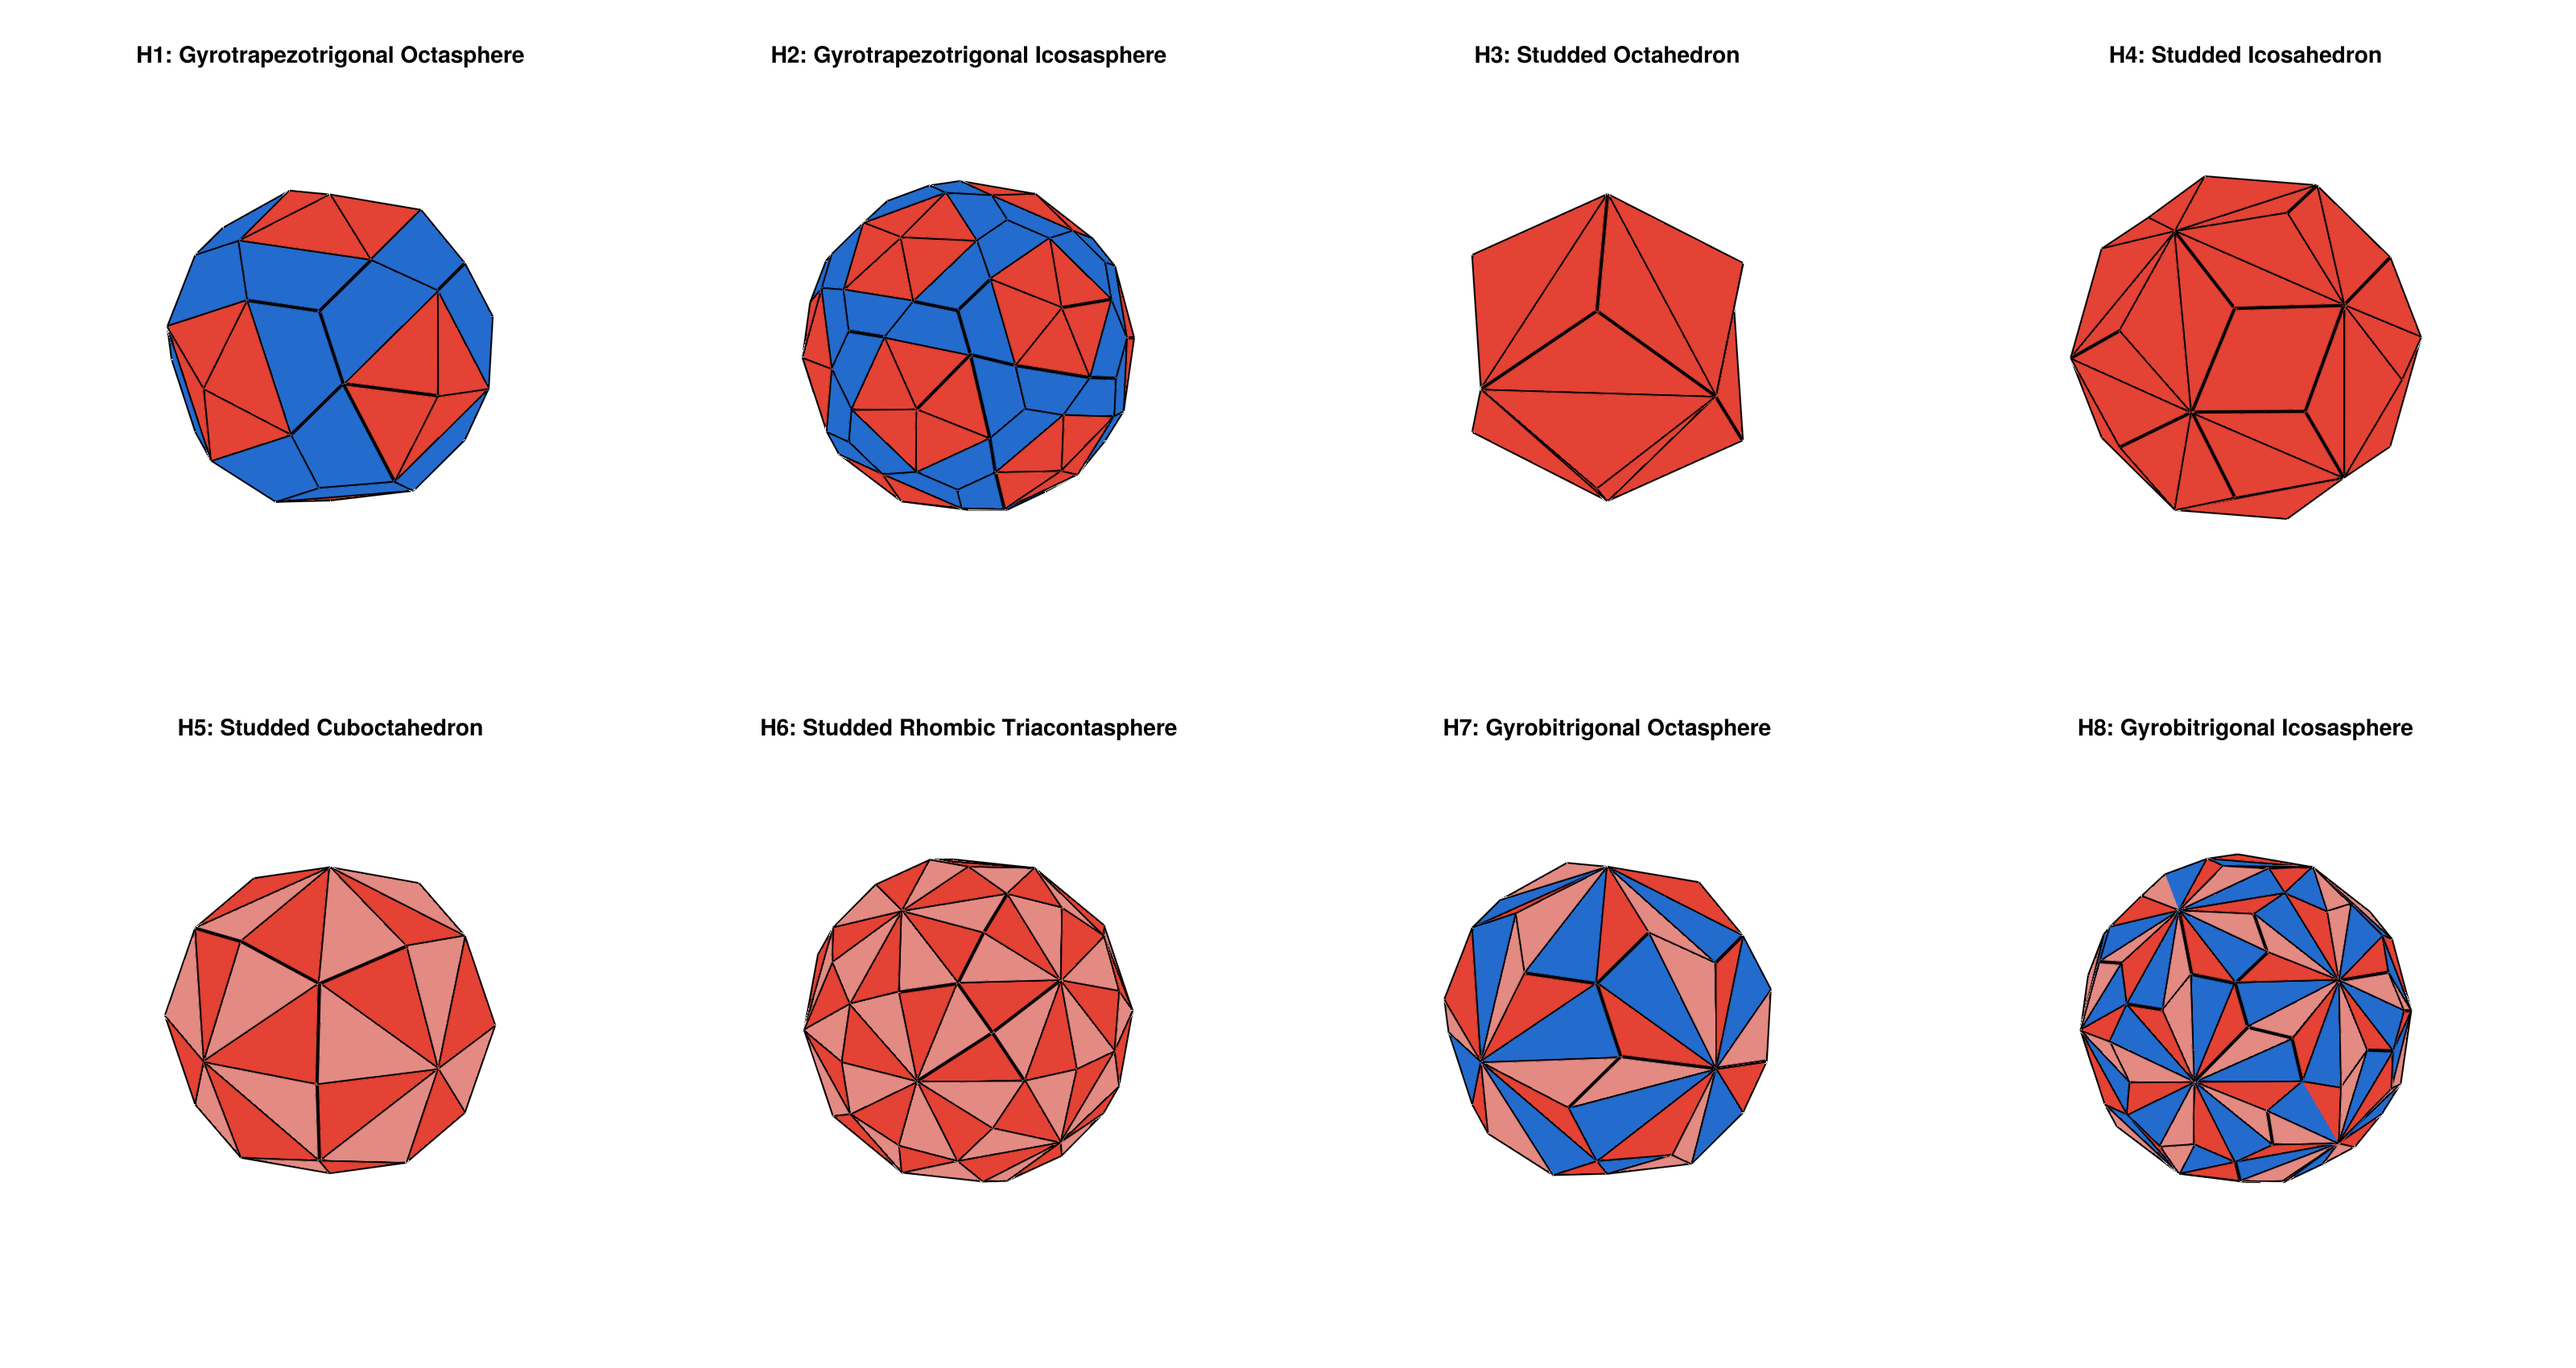
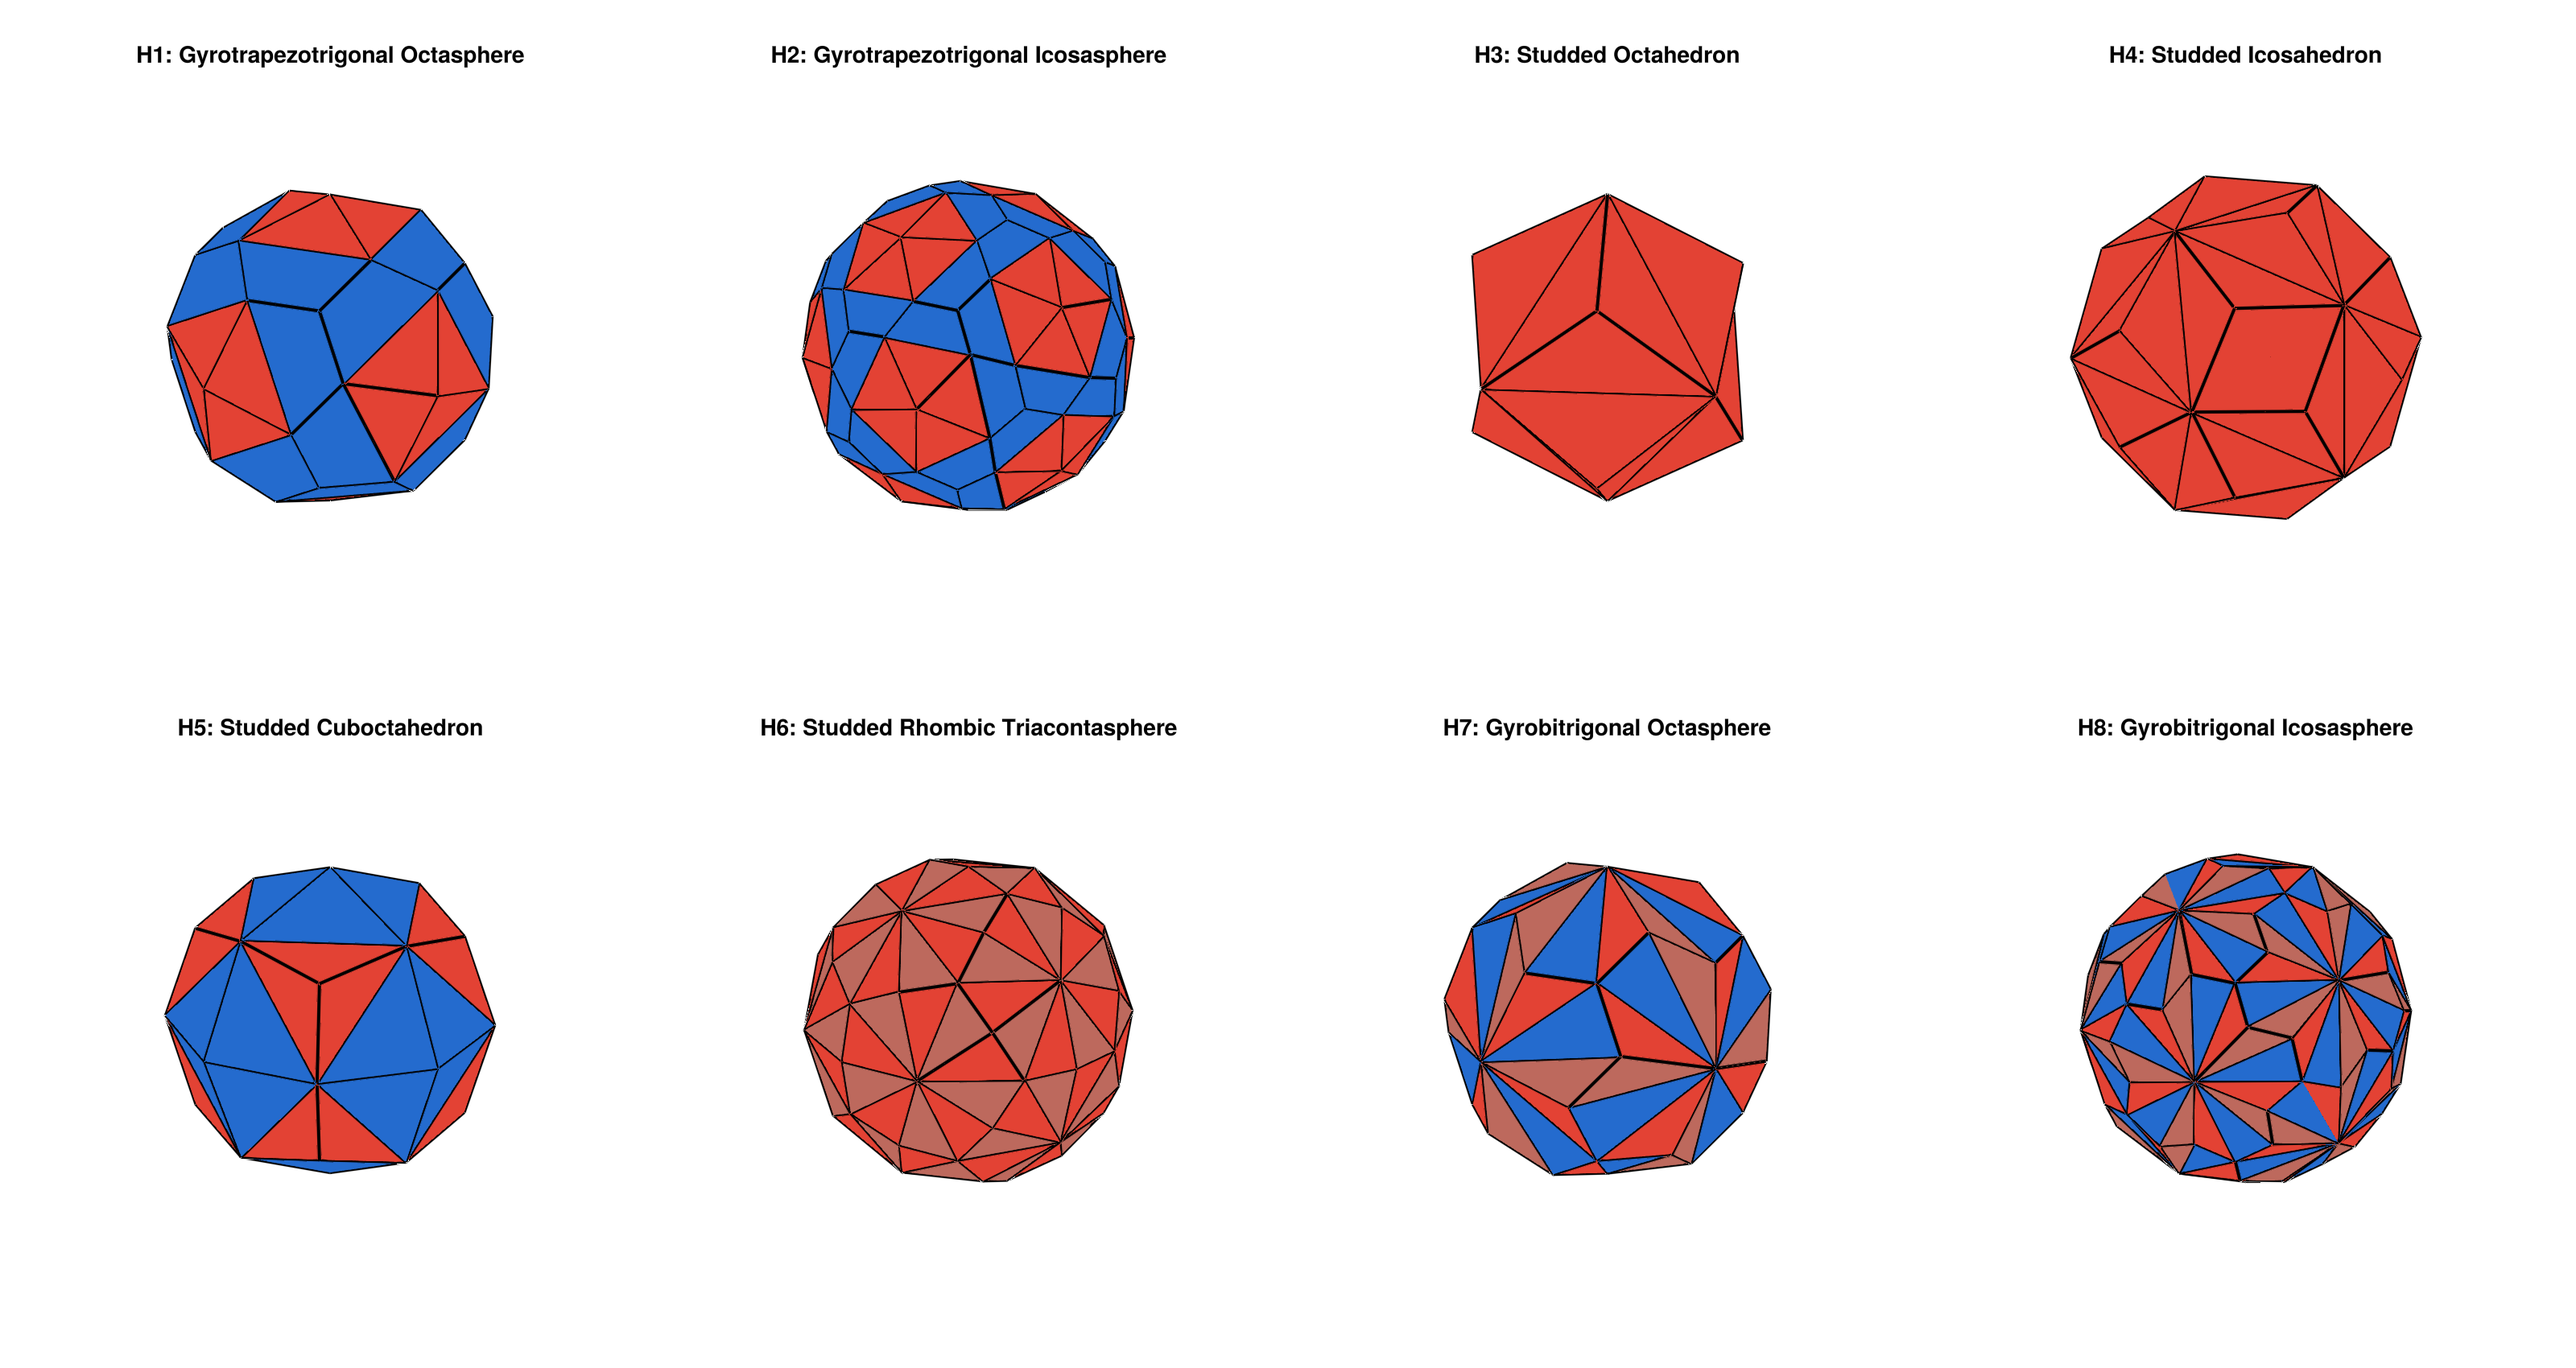
Rename Studded Cuboctasphere to Studded Rhombic Dodecasphere and apply constant-lightness Oklch chroma muting for chiral variants

diff --git a/doc/cookson.md b/doc/cookson.md
@@ -58,8 +58,8 @@ These solids pass the baseline regime rules but are disqualified under **Rule A*
 | :--- | :--- | :--- | :---: | :---: |
 | **Studded Hexasphere** | Convex Rhombic Dodecahedron | Tetrakis Hexahedron | 14 | 24 |
 | **Studded Dodecasphere** | Convex Rhombic Triacontahedron | Pentakis Dodecahedron | 32 | 60 |
-| **Studded Cuboctasphere** | Convex Deltoidal Icositetrahedron | Disdyakis Dodecahedron | 26 | 48 |
-| **Studded Triacontasphere** | Convex Deltoidal Hexecontahedron | Disdyakis Triacontahedron | 62 | 120 |
+| **Studded Rhombic Dodecasphere** | Convex Deltoidal Icositetrahedron | Disdyakis Dodecahedron | 26 | 48 |
+| **Studded Rhombic Triacontasphere** | Convex Deltoidal Hexecontahedron | Disdyakis Triacontahedron | 62 | 120 |
 
 ![The Excluded Solids Roster](excluded_cooksons_gallery.png)
 
